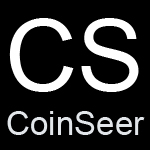
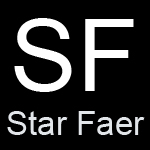
swapped thumbmail for twitter

diff --git a/resources/views/all-videos/show.blade.php b/resources/views/all-videos/show.blade.php
@@ -58,7 +58,7 @@
 
                 </div>
 
-            </div> <!-- end column -->
+            </div> <!-- end row -->
 
         </div><!-- end container -->
 
